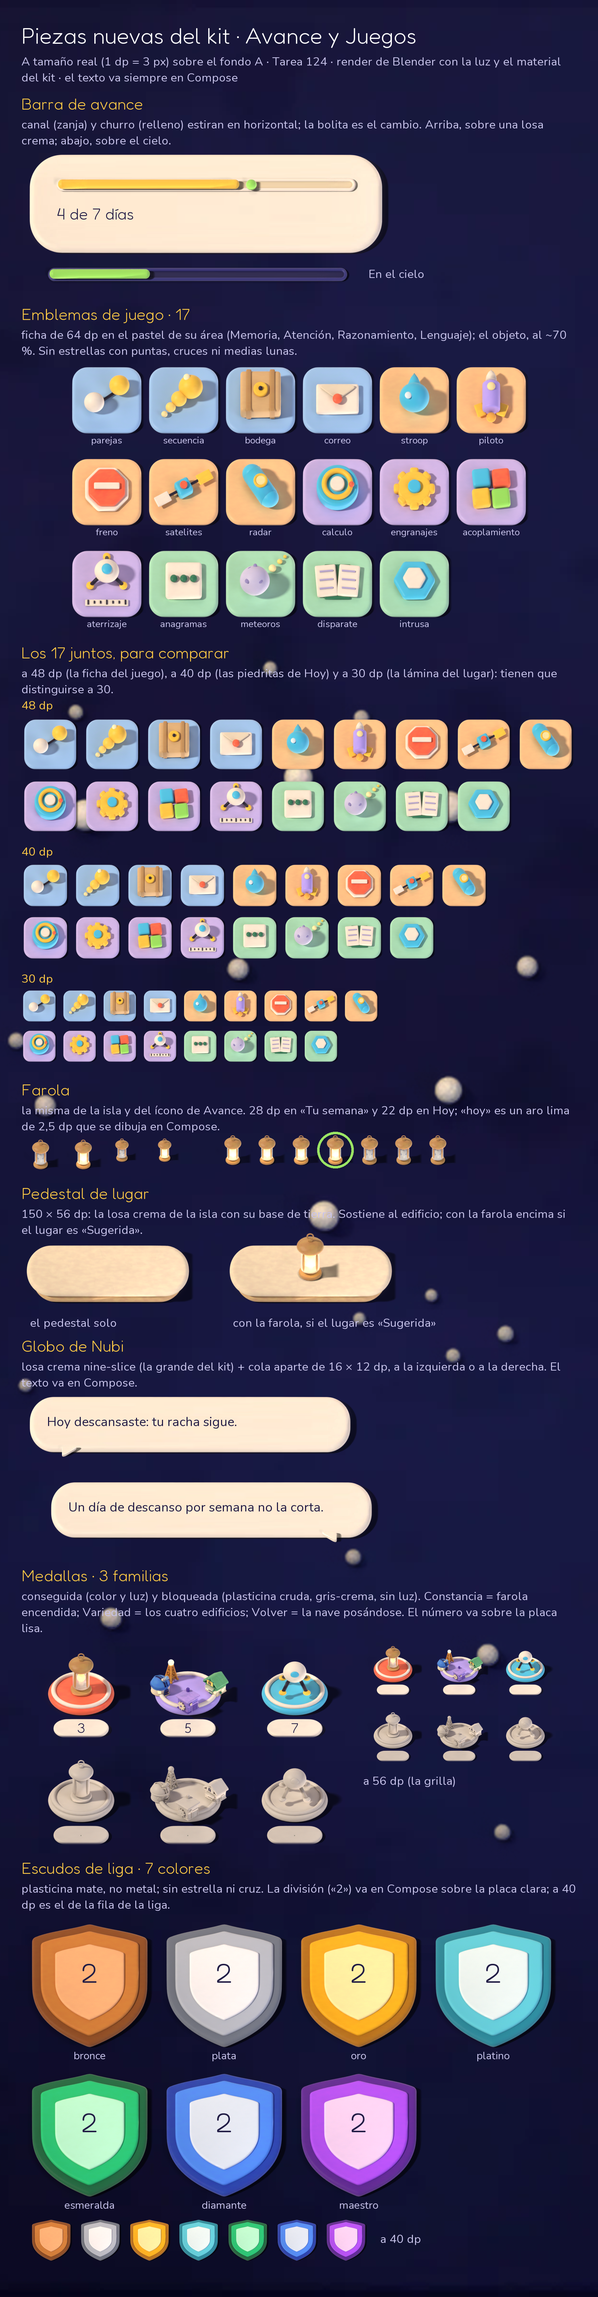
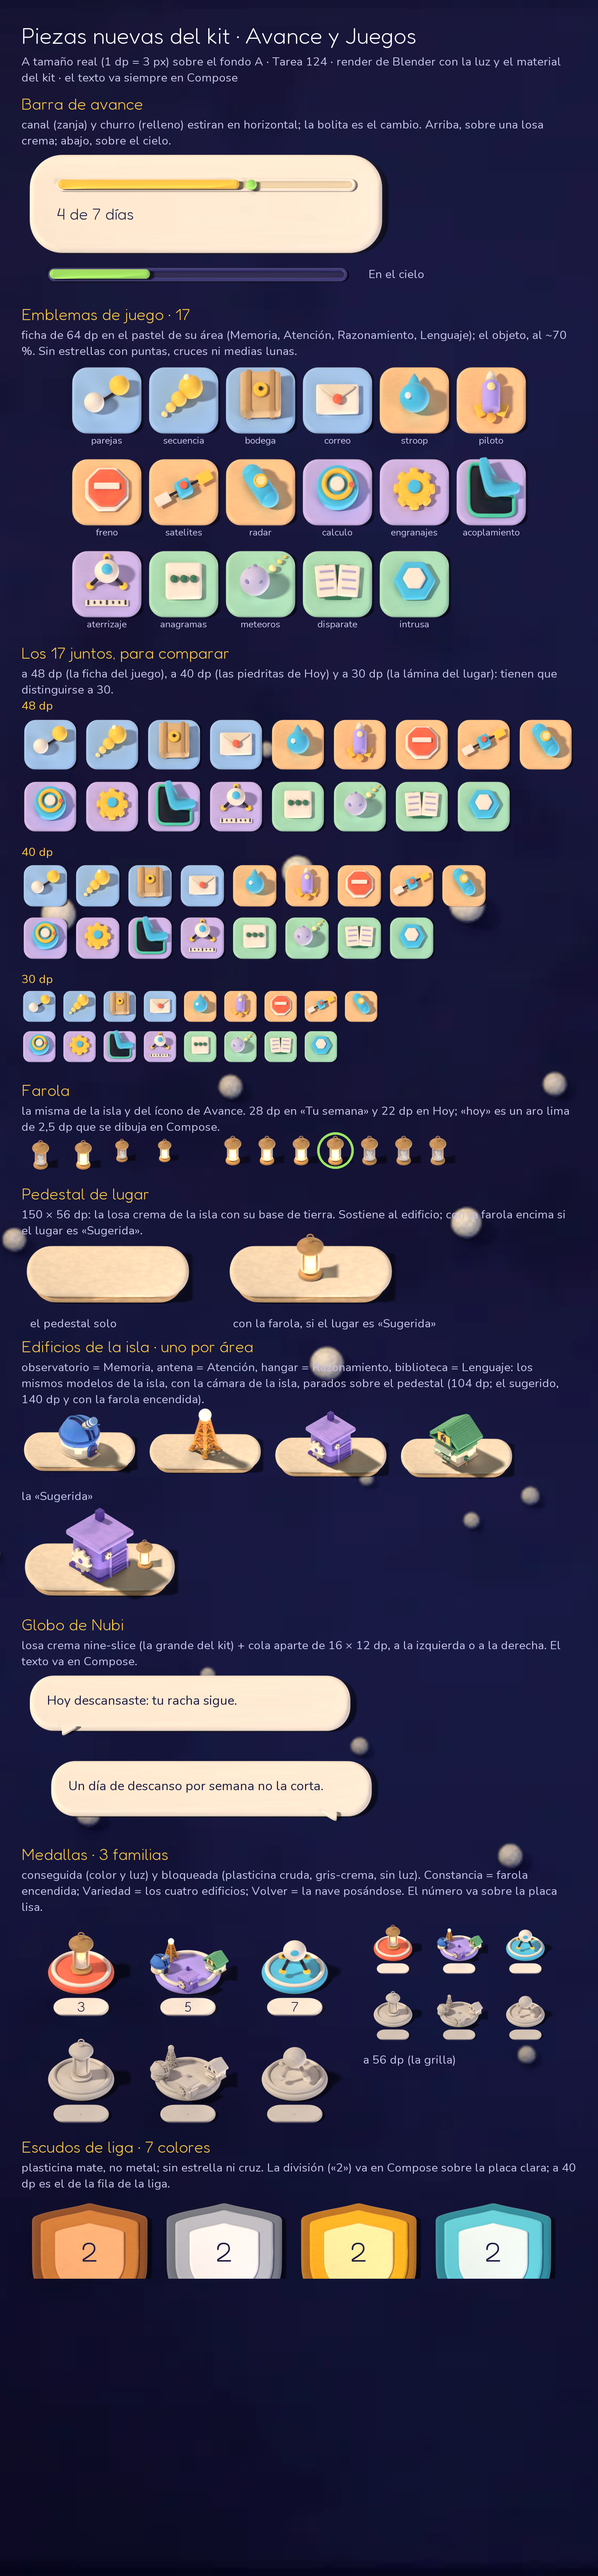
Kit de Avance y Juegos: emblema de Acoplamiento corregido y edificios de la isla (Tarea 125, arte)
- Acoplamiento: el módulo en L (la almohada celeste) inclinado y entrando en su hueco de cordón verde agua, sobre la ficha lila; ya no son los cuatro cuadrados de colores (parecían un logo y sus juntas formaban un «+»).
- kit_avance.py: los cuatro edificios de la isla solos (observatorio = Memoria, antena = Atención, hangar = Razonamiento, biblioteca = Lenguaje) con la cámara de la isla en ortogonal, para pararlos sobre el pedestal; `pie_dp` dice dónde tocan el suelo.
- tools/isla/kit_avance_app.py lleva las piezas a la app (drawable-nodpi + res/raw/kit_avance.json); la hoja del kit suma los edificios sobre el pedestal.

diff --git a/tools/isla/kit_avance.py b/tools/isla/kit_avance.py
@@ -102,6 +102,25 @@ def cam_pie(w_dp, h_dp, zc):
     scene.render.resolution_x = int(round(w_dp * KIT_PX)); scene.render.resolution_y = int(round(h_dp * KIT_PX)); return cam
 
 
+EDIF_ORTHO = 3.4; EDIF_ZC = 1.05                                                          # unidades que cubre la imagen y altura a la que mira la cámara
+
+
+def cam_edif(w_dp, h_dp):
+    """La cámara de la isla (de frente y a la derecha, ~37° de elevación) pero ortogonal, mirando a un edificio solo; los cuatro con la misma escala (la antena es la más alta)."""
+    cam = bpy.data.cameras.new('cam_edif'); cam.type = 'ORTHO'; cam.ortho_scale = EDIF_ORTHO
+    d = (Vector((12.8, -12.8, 14.5)) - Vector((0, 0, 0.7))).normalized(); tgt = Vector((0, 0, EDIF_ZC))
+    co = bpy.data.objects.new('cam_edif', cam); scene.collection.objects.link(co); co.location = tuple(tgt + d * 30)
+    co.rotation_euler = (tgt - co.location).to_track_quat('-Z', 'Y').to_euler(); scene.camera = co
+    scene.render.resolution_x = int(round(w_dp * KIT_PX)); scene.render.resolution_y = int(round(h_dp * KIT_PX)); return co
+
+
+def pie_en_imagen(co, w_dp, h_dp):
+    """Dónde cae el pie del edificio (el origen) en la imagen, en dp desde la esquina de arriba a la izquierda."""
+    from bpy_extras.object_utils import world_to_camera_view as w2c
+    bpy.context.view_layer.update(); c = w2c(scene, co, Vector((0, 0, 0)))
+    return [round(c.x * w_dp, 2), round((1 - c.y) * h_dp, 2)]
+
+
 def iso_p(u, v, prof=0.0):
     """Punto del mundo que la cámara de pie ve en (u derecha, v arriba) dp del centro, `prof` dp hacia la cámara."""
     return (dp(u), dp(v) * SE - dp(prof) * CE, dp(v) * CE + dp(prof) * SE)
@@ -125,7 +144,8 @@ def una(nombre, w_dp, h_dp, construye, camara='kit', alto_u=0.3, zc=0.6, visible
     """Arma una pieza, la fotografía y la limpia. camara='kit': todo lo que cuelga queda bajo `raiz_kit()` (cara redonda = redonda); 'pie': cámara de los íconos de la barra."""
     if not tiene(nombre): return
     antes = set(bpy.data.objects)
-    cam_tilt(w_dp, h_dp, alto_u) if camara == 'kit' else cam_pie(w_dp, h_dp, zc)
+    cam_tilt(w_dp, h_dp, alto_u) if camara == 'kit' else (cam_edif(w_dp, h_dp) if camara == 'edif' else cam_pie(w_dp, h_dp, zc))
+    if camara == 'edif': meta['pie_dp'] = pie_en_imagen(scene.camera, w_dp, h_dp)
     suelo_kit(); nuevos0 = set(bpy.data.objects)
     construye()
     if camara == 'kit':
@@ -264,10 +284,14 @@ def em_engranajes(z):       # un engranaje de dientes romos
     h = cyl(r=0.3, d=0.4, verts=40, loc=(0, 0, z + 0.3), coll='iconos', name='pz_eje'); redondo(h, 0.06, 4); mat(h, mk(CIELO))
 
 
-def em_acoplamiento(z):     # módulo de 2 × 2 bloques
-    cols = (CIELO, CORAL, SOL, LIMA)
-    for k, (x, y) in enumerate(((-0.46, 0.46), (0.46, 0.46), (-0.46, -0.46), (0.46, -0.46))):
-        b_ = box((0.84, 0.84, 0.42), loc=(x, y, z + 0.21), rot=(0, 0, 6), coll='iconos', name='pz_bloque'); redondo(b_, 0.14, 5); mat(b_, mk(cols[k]))
+def em_acoplamiento(z):     # el módulo en L del juego (la almohada celeste), inclinado y entrando en su hueco de cordón verde agua
+    def ele(e): return [(-18 - e, -21 - e), (18 + e, -21 - e), (18 + e, -8 + e), (-5 + e, -8 + e), (-5 + e, 21 + e), (-18 - e, 21 + e)]     # la L (dp), centrada; e = cuánto se agranda
+    zd = z * KIT_DPU
+    hueco = losa_perfil(redondea(ele(2.0), 0.26, 7), 1.0, 0.4, 'pz_hueco', z_dp=zd); mat(hueco, mk('#0B0D26'))
+    cordon = [(dp(x), dp(y), dp(zd + 1.7)) for (x, y) in redondea(ele(3.6), 0.26, 7)]
+    tubo(cordon, dp(1.8), '#4FD6B0', cerrado=True, name='pz_hueco_cordon', res=8)
+    mod = losa_perfil(redondea(ele(-1.5), 0.3, 8), 7.0, 2.8, 'pz_modulo', z_dp=0); mat(mod, mk(CIELO))
+    mod.location = (dp(7.0), dp(8.0), dp(zd + 8.0)); mod.rotation_euler = (math.radians(-6), math.radians(8), math.radians(12))
 
 
 def em_aterrizaje(z):       # la nave posándose sobre la regla: tres patas gordas con sus pies, el domo y una barra con sus marcas
@@ -305,7 +329,7 @@ def em_intrusa(z):          # el hexágono-figura del juego
     i = cyl(r=0.55, d=0.2, verts=6, loc=(0, 0, z + 0.4), rot=(0, 0, 30), coll='iconos', name='pz_hexagono_centro'); redondo(i, 0.08, 4, 20); mat(i, mk(CREMA))
 
 
-ESCALA = {'piloto': 0.84, 'satelites': 0.8, 'aterrizaje': 0.88, 'meteoros': 0.9, 'secuencia': 0.92, 'radar': 0.92, 'stroop': 0.95, 'parejas': 0.95, 'correo': 0.95}   # lo que se pasa del 70 % se achica
+ESCALA = {'acoplamiento': 0.98, 'piloto': 0.84, 'satelites': 0.8, 'aterrizaje': 0.88, 'meteoros': 0.9, 'secuencia': 0.92, 'radar': 0.92, 'stroop': 0.95, 'parejas': 0.95, 'correo': 0.95}   # lo que se pasa del 70 % se achica
 
 
 EMBLEMAS = (   # (id del juego, área, dibujo)
@@ -331,6 +355,16 @@ def farola(encendida):
         for o in objs:
             if o.name.startswith('ic_luz') or o.name.startswith('ic_vela'): o.data.materials.clear(); mat(o, mk('#CDC6B6'))
     normaliza(objs, 1.5, 0.0)
+
+
+# ---------------------------------------------------------------------------------------------------- los edificios de la isla, uno por área (Tarea 125: la grilla de Juegos y la ventana de un área; `area_<área>.webp` son los planetas planos de antes)
+EDIFICIOS = {'memoria': ('Observatorio', observatorio, 90), 'atencion': ('Antena', antena, 0), 'razonamiento': ('Hangar', hangar, 0), 'lenguaje': ('Biblioteca', biblioteca, 0)}
+
+
+def edificio(area):
+    """El edificio de la isla de esa área, solo, con la luz y la sombra de contacto del kit (los mismos modelos de `build_island`, con el «hecho a mano» de la isla)."""
+    nombre, fn, rz = EDIFICIOS[area]
+    group(nombre, collect(fn), (0, 0), rz); handmade('edificios')
 
 
 # ---------------------------------------------------------------------------------------------------- 3.6 pedestal del lugar
@@ -456,6 +490,8 @@ def render_kit_avance():
     una('farola_apagada', 36.0, 36.0, lambda: farola(False), camara='pie', zc=0.69, usos_dp=[28, 22])
     una('farola_encendida', 36.0, 36.0, lambda: farola(True), camara='pie', zc=0.69, usos_dp=[28, 22])
     una('pedestal', 162.0, 70.0, pedestal, alto_u=0.75, cuerpo_dp=[150, 56])
+    for area in EDIFICIOS:
+        una('edificio_' + area, 144.0, 144.0, lambda a=area: edificio(a), camara='edif', visibles=('iconos', 'luces', 'edificios'), area=area)
     una('cola_izquierda', 28.0, 24.0, lambda: cola(True), alto_u=0.25, cuerpo_dp=[16, 12], nota='la punta hacia abajo a la izquierda')
     una('cola_derecha', 28.0, 24.0, lambda: cola(False), alto_u=0.25, cuerpo_dp=[16, 12], nota='la punta hacia abajo a la derecha')
     for fam in FAMILIAS:

diff --git a/tools/isla/kit_avance_app.py b/tools/isla/kit_avance_app.py
@@ -1,0 +1,65 @@
+# -*- coding: utf-8 -*-
+"""Lleva las piezas del kit para Avance y Juegos (Tarea 124, renders de `isla.py --kit --kit-solo avance`) a la app (Tarea 125):
+   - `app/src/main/res/drawable-nodpi/kit_<nombre>.webp` (a 3 px por dp, sin que Android los reescale; WebP calidad 92 con alfa) con la bruma del «shadow catcher» recortada, igual que `kit.py`;
+   - `app/src/main/res/raw/kit_avance.json`: por pieza la imagen, los márgenes (donde cae la sombra), el cuerpo medido en la imagen y, en el canal y el churro (nine-slice horizontal), los insets; en las medallas, la placa del número.
+Los nombres de la app: kit_canal_<crema|cielo>, kit_churro_<sol|lima>, kit_bolita, kit_emb_<juego>, kit_farola_<off|on>, kit_pedestal, kit_cola_<izq|der>, kit_med_<constancia|variedad|volver>[_off], kit_escudo_<liga>, kit_edif_<área> (los edificios de la isla, con `pie_dp`).
+Uso:  python -I tools/isla/kit_avance_app.py [carpeta_de_renders]      (por defecto tools/isla/out/kit-avance)
+`AvanceKitTest` mide que cada WebP tenga el tamaño que dice el JSON y que no sobre ni falte ninguno."""
+import os, sys, json
+import numpy as np
+from PIL import Image
+
+sys.stdout.reconfigure(encoding='utf-8')
+HERE = os.path.dirname(os.path.abspath(__file__)); ROOT = os.path.abspath(os.path.join(HERE, '..', '..'))
+SRC = os.path.abspath(sys.argv[1]) if len(sys.argv) > 1 else os.path.join(HERE, 'out', 'kit-avance')
+RES = os.path.join(ROOT, 'app', 'src', 'main', 'res'); PX = 3
+JUEGOS = ('parejas', 'secuencia', 'bodega', 'correo', 'stroop', 'piloto', 'freno', 'satelites', 'radar', 'calculo', 'engranajes', 'acoplamiento', 'aterrizaje', 'anagramas', 'meteoros', 'disparate', 'intrusa')
+FAMILIAS = ('constancia', 'variedad', 'volver')
+AREAS = ('memoria', 'atencion', 'razonamiento', 'lenguaje')
+LIGAS = ('bronce', 'plata', 'oro', 'platino', 'esmeralda', 'diamante', 'maestro')
+
+# nombre de la app → render de Blender
+MAPA = {'canal_crema': 'canal_crema', 'canal_cielo': 'canal_cielo', 'churro_sol': 'churro_sol', 'churro_lima': 'churro_lima', 'bolita': 'bolita_lima',
+        'farola_off': 'farola_apagada', 'farola_on': 'farola_encendida', 'pedestal': 'pedestal', 'cola_izq': 'cola_izquierda', 'cola_der': 'cola_derecha'}
+for j in JUEGOS: MAPA['emb_' + j] = 'emblema_' + j
+for f in FAMILIAS: MAPA['med_' + f] = 'medalla_%s_conseguida' % f; MAPA['med_%s_off' % f] = 'medalla_%s_bloqueada' % f
+for l in LIGAS: MAPA['escudo_' + l] = 'escudo_' + l
+for a in AREAS: MAPA['edif_' + a] = 'edificio_' + a
+TIRAS = ('canal_crema', 'canal_cielo', 'churro_sol', 'churro_lima')           # nine-slice horizontal: la franja central de 4 dp se estira
+
+
+def carga(n):
+    """El PNG con la bruma del «shadow catcher» recortada (como `kit.py`): se resta un piso de 12/255 y el alfa llega a 0 en los últimos 10 px de cada borde."""
+    a = np.asarray(Image.open(os.path.join(SRC, 'kit_pz_' + n + '.png')).convert('RGBA')).astype(float).copy()
+    al = np.clip((a[..., 3] - 12.0) * 255.0 / (255.0 - 12.0), 0, 255); h, w = al.shape; yy, xx = np.mgrid[0:h, 0:w]
+    d = np.minimum.reduce([xx, yy, w - 1 - xx, h - 1 - yy]).astype(float); al *= 0.5 - 0.5 * np.cos(np.pi * np.clip(d / 10.0, 0, 1)); a[..., 3] = al
+    return Image.fromarray(a.astype(np.uint8), 'RGBA')
+
+
+def cuerpo(im):
+    """El cuerpo: lo opaco y con color (la sombra de contacto es negra y translúcida)."""
+    a = np.asarray(im); m = (a[..., 3] >= 200) & (a[..., :3].max(axis=2) > 40)
+    ys, xs = np.where(m); return int(xs.min()), int(ys.min()), int(xs.max()) + 1, int(ys.max()) + 1
+
+
+def main():
+    meta = json.load(open(os.path.join(SRC, 'kit_avance.json'), encoding='utf-8'))['piezas']
+    out = {}; total = 0
+    for nombre, render in MAPA.items():
+        im = carga(render); x0, y0, x1, y1 = cuerpo(im); w, h = im.size
+        p = os.path.join(RES, 'drawable-nodpi', 'kit_%s.webp' % nombre); im.save(p, quality=92, alpha_quality=100, method=6); total += os.path.getsize(p)
+        e = {'imagen_px': [w, h], 'margenes_dp': {'izq': round(x0 / PX, 2), 'arr': round(y0 / PX, 2), 'der': round((w - x1) / PX, 2), 'abajo': round((h - y1) / PX, 2)},
+             'cuerpo_dp': {'ancho': round((x1 - x0) / PX, 2), 'alto': round((y1 - y0) / PX, 2)}}
+        if nombre in TIRAS:
+            cx = (x0 + x1) // 2; e['insets_px'] = {'izq': cx - 2 * PX, 'der': w - (cx + 2 * PX)}
+        if nombre.startswith('edif_'): e['pie_dp'] = meta[render]['pie_dp']                                                       # dónde toca el suelo el edificio (dp desde la esquina de la imagen)
+        if nombre.startswith('med_'): e['placa_dp'] = {'cx': w / PX / 2, 'cy': round((48 + 38) * (w / PX) / 96, 2), 'ancho': 52, 'alto': 16}      # la placa lisa del número, en dp desde la esquina de la imagen
+        out[nombre] = e
+    with open(os.path.join(RES, 'raw', 'kit_avance.json'), 'w', encoding='utf-8') as f:
+        json.dump({'px_por_dp': PX, 'nota': 'Piezas del kit para Avance y Juegos (Tarea 125), de los renders de `tools/isla/isla.py --kit --kit-solo avance` por `tools/isla/kit_avance_app.py`. A 3 px por dp; `cuerpo_dp` y `margenes_dp` medidos en la imagen. '
+                   'Nine-slice horizontal (`insets_px`) en el canal y el churro; `placa_dp` es el sitio del número de la medalla (va en Compose).', 'piezas': out}, f, ensure_ascii=False, indent=1)
+    print('%d piezas, %.0f KB' % (len(out), total / 1024))
+
+
+if __name__ == '__main__':
+    main()

diff --git a/tools/previews/kit_avance_juegos.py b/tools/previews/kit_avance_juegos.py
@@ -89,6 +89,21 @@ def horizontal(im, ancho_cuerpo_dp):
     return out, b
 
 
+def edificio_sobre_pedestal(area, ancho_dp, meta, farola=False):
+    """El edificio de la isla de [area] sobre el pedestal, como lo arma `BuildingOnPedestal` de la app (el pie del edificio en el centro de la cara de arriba del pedestal; 21,7 dp bajo el borde de arriba de su cuerpo)."""
+    ped = pieza('pedestal'); pb = cuerpo_px(ped); k = ancho_dp / ((pb[2] - pb[0]) / PX)
+    ed = pieza('edificio_' + area); pie = meta['piezas']['edificio_' + area]['pie_dp']
+    W = int((ped.width + 60) * k) + 400; H = int((ped.height + 72 * PX) * k) + 400; canvas = Image.new('RGBA', (W, H), (0, 0, 0, 0))
+    ox, oy = 200, 200 + int(72 * PX * k)                                   # dónde cae la esquina de la imagen del pedestal
+    canvas.alpha_composite(escala(ped, k), (ox, oy))
+    fx = ox + (pb[0] + pb[2]) / 2 * k; fy = oy + pb[1] * k + 21.7 * PX * k
+    e = escala(ed, k); canvas.alpha_composite(e, (int(fx - pie[0] * PX * k), int(fy - pie[1] * PX * k)))
+    if farola:
+        fa = pieza('farola_encendida'); fb = cuerpo_px(fa); fa = escala(fa, 1.0)
+        canvas.alpha_composite(fa, (int(ox + (pb[0] + (pb[2] - pb[0]) * 0.8) * k - (fb[0] + fb[2]) / 2), int(fy - fb[3] + 4 * PX)))
+    return canvas.crop(canvas.getbbox())
+
+
 # ------------------------------------------------------------------------------------------------ la hoja
 def fondo(w, h):
     base = Image.open(os.path.join(ROOT, 'docs', 'previews', 'fondo-espacio', 'A-fondo_lamina.webp')).convert('RGBA')
@@ -176,6 +191,18 @@ def hoja():
             pon(fa, M + 190 * PX + 243 - (fb[0] + fb[2]) * k / 2, y + 40 * PX - fb[3] * k)
         d.text((M + 8 * PX, y + 72 * PX), 'el pedestal solo', font=font(11, False), fill=DIM); d.text((M + 198 * PX, y + 72 * PX), 'con la farola, si el lugar es «Sugerida»', font=font(11, False), fill=DIM)
         y += int(92 * PX)
+
+    # 4b. los edificios de la isla sobre el pedestal (la grilla de Juegos)
+    if all(existe('edificio_' + a) for a in ('memoria', 'atencion', 'razonamiento', 'lenguaje')) and existe('pedestal'):
+        meta = json.load(open(os.path.join(SRC, 'kit_avance.json'), encoding='utf-8'))
+        titulo('Edificios de la isla · uno por área', 'observatorio = Memoria, antena = Atención, hangar = Razonamiento, biblioteca = Lenguaje: los mismos modelos de la isla, con la cámara de la isla, parados sobre el pedestal (104 dp; el sugerido, 140 dp y con la farola encendida).')
+        x = M
+        for i, a in enumerate(('memoria', 'atencion', 'razonamiento', 'lenguaje')):
+            im = edificio_sobre_pedestal(a, 104 if i != 2 else 104, meta); pon(im, x, y); x += im.width + 8 * PX
+        h1 = max(im.height for im in [edificio_sobre_pedestal(a, 104, meta) for a in ('memoria',)])
+        y += int(h1 + 10 * PX)
+        d.text((M, y), 'la «Sugerida»', font=font(11, False), fill=DIM); y += int(14 * PX)
+        sug = edificio_sobre_pedestal('razonamiento', 140, meta, farola=True); pon(sug, M, y); y += sug.height + int(10 * PX)
 
     # 5. globo de Nubi
     if existe('cola_izquierda') and existe('cola_derecha'):

diff --git a/tools/isla/README.md b/tools/isla/README.md
@@ -61,7 +61,7 @@ cp tools/isla/out/kit/app/kit_*.webp app/src/main/res/drawable-nodpi/ && cp tool
 
 Opciones de `--kit`: `--kit-solo losas|discos|iconos|avatares` (renderiza solo una parte), `--kit-tilt` (grados de inclinación de la cámara respecto de la vista desde arriba; 30 por defecto: se ve un poco el canto de adelante), `--kit-h` (alto de la losa elevada en dp; 9) y `--kit-exp` (exposición; −0,42: con el sol desde arriba la plasticina clara se quemaba y la crema y la lima salían a 255).
 
-**Piezas de Avance y Juegos (Tarea 124, 18-oct).** `--kit --kit-solo avance` (no entra en `todo`) carga `kit_avance.py` y renderiza: el **canal** (sobre losa crema y sobre el cielo) y el **churro** (sol y lima), nine-slice horizontal; la **bolita** lima del cambio; los **17 emblemas de juego** (ficha de 64 dp en el pastel de su área, objeto al ~70 %, sin puntas ni cruces); la **farola** apagada y encendida (la misma del ícono de Avance); el **pedestal de lugar** (150 × 56 dp); las dos **colas del globo** de Nubi (16 × 12 dp); las **3 medallas** (Constancia, Variedad, Volver) conseguidas y bloqueadas (plasticina cruda) y el **escudo de liga** en los 7 colores de `RankTier` (mate). Deja `kit_pz_<nombre>.png` y `kit_avance.json` en `--out`; `--pieza emblema_,escudo_` renderiza solo las que empiezan así. ~12 min con Cycles por CPU a 112 muestras. Dos cámaras, las del resto del kit: la inclinada 30° del kit (lo que se acuesta: todo cuelga de `raiz_kit()`, estirada 1/cos, y las esferas `pz_rd_*` cancelan ese estirón) y la de los íconos de la barra (lo que se para: farola y medallas). La hoja: `python -I tools/previews/kit_avance_juegos.py` → `docs/previews/kit-avance-juegos.png` (todo a 3 px por dp sobre el fondo A, y los 17 emblemas juntos) y los WebP con `kit_avance.json` (tamaños, márgenes y cuerpo medidos en la imagen) en `docs/previews/kit-avance-juegos/`. Todavía NO entran en la app (no están en `drawable-nodpi`): la Tarea 125 las integra a Avance y Juegos y ahí `kit.py` las alinea.
+**Piezas de Avance y Juegos (Tarea 124, 18-oct).** `--kit --kit-solo avance` (no entra en `todo`) carga `kit_avance.py` y renderiza: el **canal** (sobre losa crema y sobre el cielo) y el **churro** (sol y lima), nine-slice horizontal; la **bolita** lima del cambio; los **17 emblemas de juego** (ficha de 64 dp en el pastel de su área, objeto al ~70 %, sin puntas ni cruces); la **farola** apagada y encendida (la misma del ícono de Avance); el **pedestal de lugar** (150 × 56 dp); las dos **colas del globo** de Nubi (16 × 12 dp); las **3 medallas** (Constancia, Variedad, Volver) conseguidas y bloqueadas (plasticina cruda) y el **escudo de liga** en los 7 colores de `RankTier` (mate). Deja `kit_pz_<nombre>.png` y `kit_avance.json` en `--out`; `--pieza emblema_,escudo_` renderiza solo las que empiezan así. ~12 min con Cycles por CPU a 112 muestras. Dos cámaras, las del resto del kit: la inclinada 30° del kit (lo que se acuesta: todo cuelga de `raiz_kit()`, estirada 1/cos, y las esferas `pz_rd_*` cancelan ese estirón) y la de los íconos de la barra (lo que se para: farola y medallas). La hoja: `python -I tools/previews/kit_avance_juegos.py` → `docs/previews/kit-avance-juegos.png` (todo a 3 px por dp sobre el fondo A, y los 17 emblemas juntos) y los WebP con `kit_avance.json` (tamaños, márgenes y cuerpo medidos en la imagen) en `docs/previews/kit-avance-juegos/`. Desde la Tarea 125 entran en la app: `python -I tools/isla/kit_avance_app.py` (con los renders de `tools/isla/out/kit-avance/`) deja los WebP `drawable-nodpi/kit_<canal|churro|bolita|emb_<juego>|farola_<off|on>|pedestal|cola_<izq|der>|med_<familia>[_off]|escudo_<liga>|edif_<área>>.webp` (con la bruma del «shadow catcher» recortada, como `kit.py`) y `res/raw/kit_avance.json` (márgenes y cuerpo medidos, insets de las tiras, placa de las medallas y pie de los edificios); `AvanceKitTest` los vigila. Además de lo anterior, `--kit-solo avance` renderiza los **cuatro edificios de la isla** (`edificio_<área>`, la cámara de la isla en ortogonal; observatorio = Memoria, antena = Atención, hangar = Razonamiento, biblioteca = Lenguaje) para pararlos sobre el pedestal. El emblema de Acoplamiento es el módulo en L entrando en su hueco (no los cuatro cuadrados de colores).
 **3× (3 px por dp).** El Motorola va a ~2,625 px por dp: una imagen a 3× se reduce 0,875 y queda nítida; a 2× habría que ampliarla 1,31 y se vería borrosa. Con 3× es 1:1 en pantallas de 480 dpi. Cuestan ~231 KB los 59 archivos (WebP calidad 92). Van en `drawable-nodpi` para que Android no los reescale.
 **El centro de la losa va casi liso** (desviación de 0,5-0,9 sobre 255 a lo ancho y a lo alto: `kit.py` lo mide): se estira hasta 5× en horizontal, y una huella o una veta estiradas se verían como un barrido. Las esquinas y los bordes, que no se estiran, llevan el volumen: canto blando con bisel, sombra de contacto y el jaspeado leve del material.
 
